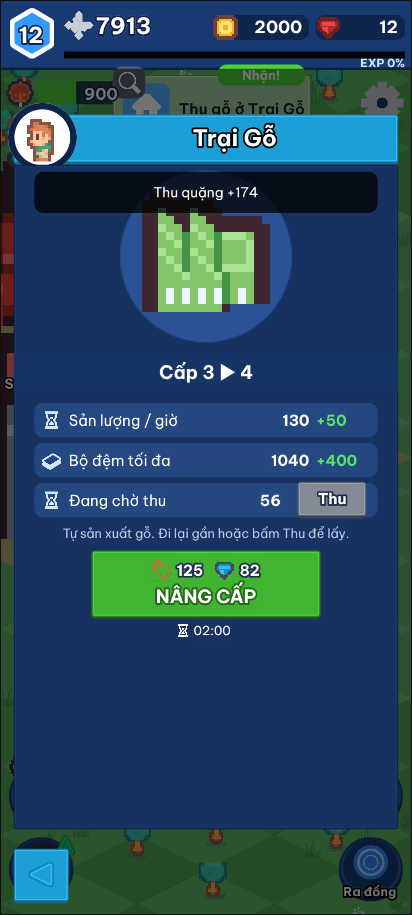
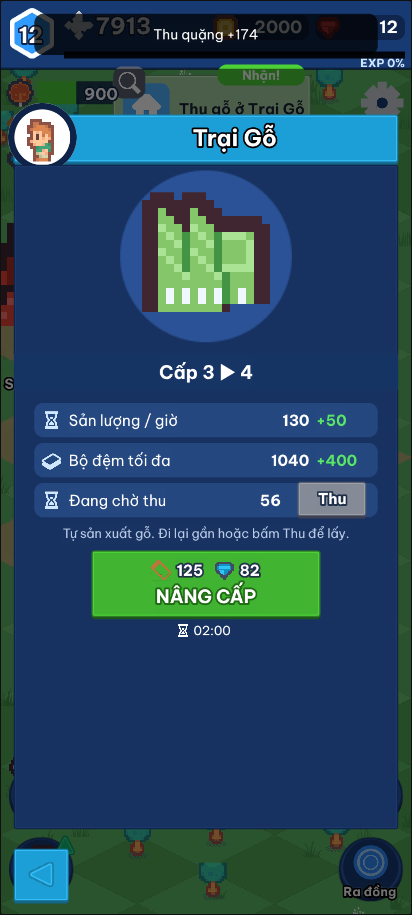
Checkpoint in-progress view fixes and unreviewed evidence after the interruption

Changed region(s): [[0.0, 0.153, 0.932, 0.612], [0.0583, 0.0, 0.932, 0.0612]]

diff --git a/game/assets/scripts/view/world/WorldRenderer.ts b/game/assets/scripts/view/world/WorldRenderer.ts
@@ -213,7 +213,8 @@ export class WorldRenderer {
     this.camY = cl(this.camY, minY + hh * 0.55, maxY - hh * 0.55);
     // ...but the leader always stays in the middle part of the view (never under the joystick or the HUD).
     this.camX = Math.max(fx - hw * 0.6, Math.min(fx + hw * 0.6, this.camX));
-    this.camY = Math.max(fy - hh * 0.3, Math.min(fy + hh * 0.15, this.camY));
+    // leader between 0.2 below and 0.05 above the centre: the fight stays under the HUD band (toasts, floor title)
+    this.camY = Math.max(fy - hh * 0.05, Math.min(fy + hh * 0.2, this.camY));
   }
 
   // ---------------- ground ----------------
@@ -298,18 +299,26 @@ export class WorldRenderer {
     const room = w.room!;
     const wall = Assets.w('td/0040'), banner = Assets.w('td/0029'), spike = Assets.w('proc/pixel'), glow = Assets.w('proc/circle');
     const spikeCol = rgba('#C9CED6');
-    // Back walls are two blocks high with spikes; front walls (x = -1, y = -1) one block, so they do not hide the
-    // squad standing next to them (decision, see view/README.md).
+    // Back walls (y = h, x = w) stand up from cells behind the room: two blocks with spikes; units in front draw over
+    // them by depth. Front walls (y = -1, x = -1) are the cause of QA-05: drawn standing up from the front-edge cells,
+    // a 96-unit block reaches about three cell rows INTO the room and covers the units there. They now hang DOWN from
+    // the centre of their (non-walkable) cell, like a cliff face, so wall art only ever covers non-walkable cells and
+    // the whole walkable floor stays visible (see view/README.md, decision 11).
     const wallCell = (x: number, y: number, i: number, front = false) => {
-      const sx = isoX(x + 0.5, y + 0.5), sy = isoY(x + 0.5, y + 0.5) - 30;
+      const sx = isoX(x + 0.5, y + 0.5), sy = isoY(x + 0.5, y + 0.5);
       const d = depth(x + 0.5, y + 0.5);
-      const isBanner = !front && i % 4 === 2;
-      // Front walls are one block and see-through (60%) so units next to them stay visible.
-      this.units.push(isBanner ? banner : wall, sx, sy, d, 6, 6, front ? 0xffffff99 : WHITE, 0, 0);
-      if (front) return;
-      this.units.push(wall, sx, sy + 48, d + 0.001, 6, 6, WHITE, 0, 0);
-      for (let k = -1; k <= 1; k++) this.units.push(spike, sx + k * 24, sy + 144, d + 0.002, 6 / 8, 18 / 8, spikeCol, 0, 0);
-      if (isBanner) this.units.push(glow, sx, sy + 80, d + 0.003, 80 / 64, 80 / 64, rgba('#FFB347', 0.18 + 0.07 * Math.sin(this.time * 9 + i)), 0, 0.5);
+      if (front) {
+        // drawn first (lowest depth): units standing on the edge cells always draw over the cliff's top edge
+        this.units.push(wall, sx, sy, -1e9, 6, 6, WHITE, 0, 1);
+        this.units.push(wall, sx, sy - 96, -1e9, 6, 6, rgba('#B0B4C8'), 0, 1);
+        return;
+      }
+      const by = sy - 30;
+      const isBanner = i % 4 === 2;
+      this.units.push(isBanner ? banner : wall, sx, by, d, 6, 6, WHITE, 0, 0);
+      this.units.push(wall, sx, by + 48, d + 0.001, 6, 6, WHITE, 0, 0);
+      for (let k = -1; k <= 1; k++) this.units.push(spike, sx + k * 24, by + 144, d + 0.002, 6 / 8, 18 / 8, spikeCol, 0, 0);
+      if (isBanner) this.units.push(glow, sx, by + 80, d + 0.003, 80 / 64, 80 / 64, rgba('#FFB347', 0.18 + 0.07 * Math.sin(this.time * 9 + i)), 0, 0.5);
     };
     // Walls ring the room: row y = -1 and column x = -1 (front edges) and y = h, x = w (back edges).
     let i = 0;

diff --git a/game/assets/scripts/view/kit/Overlays.ts b/game/assets/scripts/view/kit/Overlays.ts
@@ -30,17 +30,19 @@ export class Toasts {
     if (error) { const e = rect(n, 600, 4, C.red); e.node.setPosition(0, -34, 0); const e2 = rect(n, 600, 4, C.red); e2.node.setPosition(0, 34, 0); }
     label(n, text, { size: 24, w: 570 });
     this.items.push({ n, t: 0 });
-    const max = this.place() === 'over' ? 1 : 2;
+    const max = this.place() === 'hud' ? 2 : 1;
     while (this.items.length > max) this.items.shift()!.n.destroy();
     this.layoutToasts();
   }
 
   /**
-   * Where toasts go (QA-04), set by GameView:
-   *  'hud'     no panel: y 300 from the top (03-ux-spec.md 14.1), the new one pushes the old up;
-   *  'dungeon' below the boss bar and the floor title (y 384 down), the new one on top, older ones below;
-   *  'over'    a panel or full-screen result is open: one toast at a time over the top bar strip (y 24..96),
-   *            which holds HUD numbers only, so no panel control is ever covered.
+   * Where toasts go (QA-04, second pass). 03-ux-spec.md 14.1 puts them at y 300, which is on the third resource slot
+   * (y 256..308) and, stacked upward, on the quest card. Bands chosen to be free on every screen:
+   *  'hud'     y 324..396 under the resource column and the quest card; a second toast goes UNDER the first
+   *            (y 408..480), still far above the leader at mid-screen and the bottom buttons;
+   *  'dungeon' one toast, y 380..440, in the HUD band under the kill counter, the boss bar and the floor title; the
+   *            dungeon camera keeps the leader at or below mid-screen, so the fight stays under it;
+   *  'over'    a panel or a full-screen result is open: one toast over the top bar strip (y 24..96).
    */
   place: () => 'hud' | 'dungeon' | 'over' = () => 'hud';
   /** Re-places the visible toasts (GameView calls it when the mode or the panel stack changes). */
@@ -49,9 +51,9 @@ export class Toasts {
     const n = this.items.length;
     for (let i = 0; i < n; i++) {
       const it = this.items[n - 1 - i]; // i = 0: newest
-      const y = p === 'over' ? Layout.top - 24 - 36 : p === 'dungeon' ? Layout.top - 384 - 36 - i * 84 : Layout.top - 300 - 36 + i * 84;
+      const y = p === 'over' ? Layout.top - 24 - 36 : p === 'dungeon' ? Layout.top - 410 : Layout.top - 324 - 36 - i * 84;
       it.n.setPosition(0, y, 0);
-      it.n.active = p !== 'over' || i === 0; // over a panel: only the newest
+      it.n.active = p === 'hud' || i === 0; // over a panel or in the dungeon: only the newest
     }
   }
 

diff --git a/game/assets/scripts/view/hud/DungeonHud.ts b/game/assets/scripts/view/hud/DungeonHud.ts
@@ -57,9 +57,9 @@ export class DungeonHud {
     this.pauseBtn = new Button(T, { w: 88, h: 88, frame: '', name: 'pause', onTap: () => this.onPause() });
     place(this.pauseBtn.root, 616, 40, 88, 88);
     for (const dx of [-12, 12]) { const p = ui(this.pauseBtn.visual, 'proc/pixel', { w: 14, h: 44, color: '#FFFFFF' }); p.node.setPosition(dx, 0, 0); }
-    this.bossN = node(T, 'boss'); place(this.bossN, 110, 300, 500, 28);
+    this.bossN = node(T, 'boss'); place(this.bossN, 110, 260, 500, 28); // spec 12.1: y 260
     this.bossBar = new Bar(this.bossN, 500, 28, '#E5484D', '#000000', 0.85, 3);
-    this.bossName = label(this.bossN, '', { size: 24, bold: true, outline: '#000000' }); this.bossName.node.setPosition(0, 32, 0);
+    this.bossName = label(this.bossN, '', { size: 22, bold: true, outline: '#000000' }); this.bossName.node.setPosition(0, 1, 0); // on the bar: the kill labels end at y 240
     // Squad health strip: one 64 x 80 cell per hero (portrait + bar), bottom-left.
     this.squadN = node(B, 'squad');
     placeB(this.squadN, 16, 150, 0, 0);
@@ -69,10 +69,10 @@ export class DungeonHud {
     this.autoBg.node.setPosition(0, 12, 0);
     this.autoBtn.icon('icon/arrow_clockwise', 60, 60, 0, 12, '#FFFFFF');
     label(this.autoBtn.visual, 'AUTO', { size: 24, bold: true, outline: '#000000' }).node.setPosition(0, -44, 0);
-    // "Tầng N" sits in the HUD's top area under the streak counter and the boss bar (y 360 from the top), not over
+    // "Tầng N" sits in the HUD's top area under the streak counter and the boss bar (y 330 from the top), not over
     // the fight in the middle of the screen (QA-05); shown 1 s.
     this.floorBanner = label(T, '', { size: 48, bold: true, color: '#FFFFFF', outline: '#000000', outlineWidth: 4 });
-    this.floorBanner.node.setPosition(0, -360, 0);
+    this.floorBanner.node.setPosition(0, -330, 0);
     this.floorBanner.node.active = false;
   }
 

diff --git a/game/assets/scripts/view/model/CoreSource.ts b/game/assets/scripts/view/model/CoreSource.ts
@@ -510,7 +510,12 @@ export class CoreSource implements Source {
       g.step();
       for (let k = 0; k < g.eventCount; k++) this.mapEvent(g.events[k]);
       g.clearEvents();
-      if (this.events.length > 300) this.events = this.events.slice(-300);
+      if (this.events.length > 300) {
+        // Keep every state event (floor, toast, big...); drop only old cosmetic ones (numbers, swings, sounds).
+        const cosmetic = (e: ViewEvent) => e.t === 'damage' || e.t === 'exp' || e.t === 'attack' || e.t === 'heal' || e.t === 'skill' || e.t === 'sound' || e.t === 'gather' || e.t === 'death';
+        const old = this.events.slice(0, -150).filter((e) => !cosmetic(e));
+        this.events = old.concat(this.events.slice(-150));
+      }
     }
   }
 
